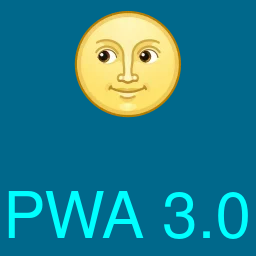
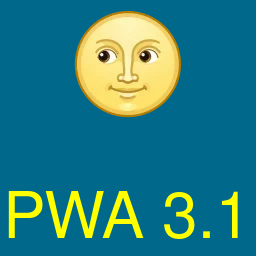
ver. 3.1

diff --git a/app.html b/app.html
@@ -6,6 +6,6 @@
     <link rel="manifest" href="manifest.json" />
   </head>
   <body style="background: deepskyblue;">
-    <p>App page ver. 3.0</p>
+    <p>App page ver. 3.1</p>
   </body>
 </html>
